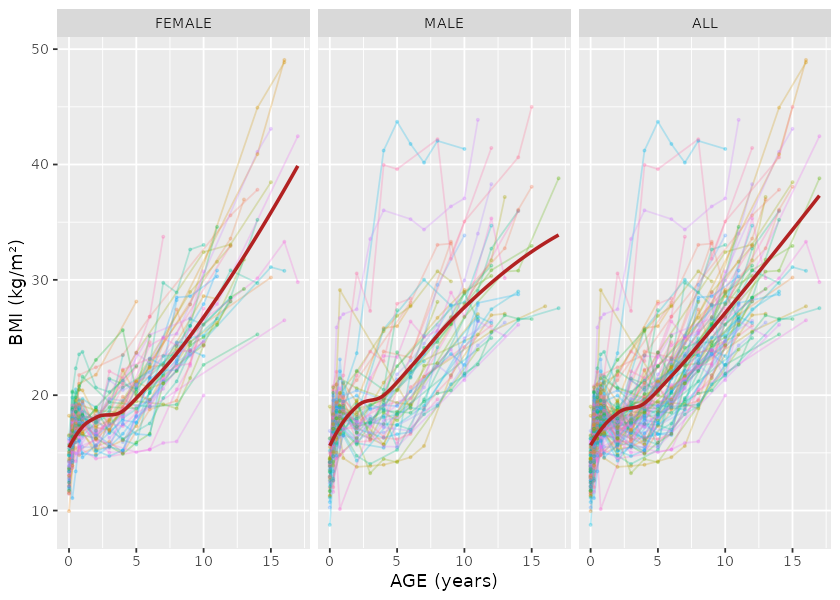
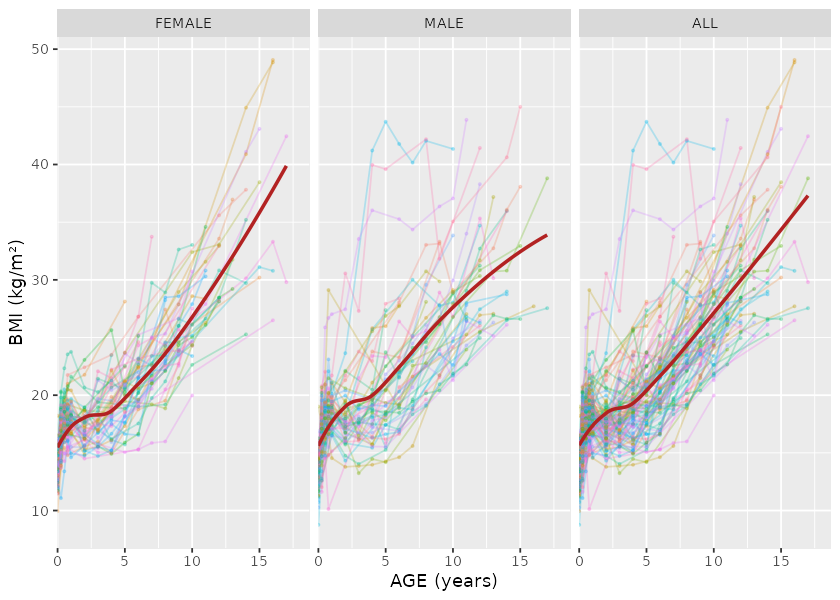
add figures on square root scale

diff --git a/README.md b/README.md
@@ -69,10 +69,11 @@ bmigrowth[bmigrowth[["ID"]] == "001", ]
 ```
 
 ``` r
-ggplot(data = bmigrowth, mapping = aes(x = age, y = bmi, colour = factor(ID))) +
+p <- ggplot(data = bmigrowth, mapping = aes(x = age, y = bmi, colour = factor(ID))) +
   geom_path(na.rm = TRUE, alpha = 0.25) +
   geom_point(size = 0.5, na.rm = TRUE, alpha = 0.25) +
   stat_smooth(method = "loess", formula = y ~ x, linetype = 1, colour = "firebrick", se = FALSE) +
+  scale_x_continuous(limits = c(0, NA), expand = expansion(mult = c(0, 0.1))) +
   theme(legend.position = "none") +
   labs(x = "AGE (years)", y = "BMI (kg/m²)") +
   facet_grid(
@@ -82,9 +83,18 @@ ggplot(data = bmigrowth, mapping = aes(x = age, y = bmi, colour = factor(ID))) +
       .cols = function(x) c("0" = "FEMALE", "1" = "MALE", "2" = "FEMALE", "(all)" = "ALL")[x]
     )
   )
+p
 ```
 
 <img src="man/figures/README-unnamed-chunk-5-1.png" width="100%" />
+
+``` r
+p + scale_x_sqrt(limits = c(0, NA), expand = expansion(mult = c(0, 0.1)))
+#> Scale for 'x' is already present. Adding another scale for 'x', which will
+#> replace the existing scale.
+```
+
+<img src="man/figures/README-unnamed-chunk-5-2.png" width="100%" />
 
 ### Modelling
 
@@ -166,6 +176,26 @@ ggplot() +
 
 <img src="man/figures/README-unnamed-chunk-9-1.png" width="100%" />
 
+Model call can also be exported.
+
+``` r
+time_model(
+  x = "age", 
+  y = "log(bmi)", 
+  data = bmigrowth[bmigrowth$sex == 0, ], 
+  method = "linear_splines", as_text = TRUE
+)
+#> nlme::lme(
+#>   fixed = log(bmi) ~ gsp(age, knots = c(5.5, 11), degree = rep(1, 3), smooth = rep(0, 2)),
+#>   data = data,
+#>   random = ~ gsp(age, knots = c(5.5, 11), degree = rep(1, 3), smooth = rep(0, 2)) | ID,
+#>   na.action = stats::na.omit,
+#>   method = "ML",
+#>   correlation = nlme::corCAR1(form = ~ 1 | ID),
+#>   control = nlme::lmeControl(opt = "optim", maxIter = 500, msMaxIter = 500)
+#> )
+```
+
 ### Residuals
 
 Different plot are available for model diagnostic, using the residuals
@@ -184,7 +214,7 @@ plot_residuals(
   )
 ```
 
-<img src="man/figures/README-unnamed-chunk-10-1.png" width="100%" />
+<img src="man/figures/README-unnamed-chunk-11-1.png" width="100%" />
 
 ### Predicted Average Slopes
 
@@ -245,7 +275,7 @@ ggplot(
   labs(x = "Predicted Slope", y = "Count")
 ```
 
-<img src="man/figures/README-unnamed-chunk-12-1.png" width="100%" />
+<img src="man/figures/README-unnamed-chunk-13-1.png" width="100%" />
 
 ### Area Under The Curves
 
@@ -292,7 +322,7 @@ ggplot(
   labs(x = "Area Under The Curve (AUC)", y = "Count")
 ```
 
-<img src="man/figures/README-unnamed-chunk-14-1.png" width="100%" />
+<img src="man/figures/README-unnamed-chunk-15-1.png" width="100%" />
 
 ### Render Analyses As Rmarkdown
 
